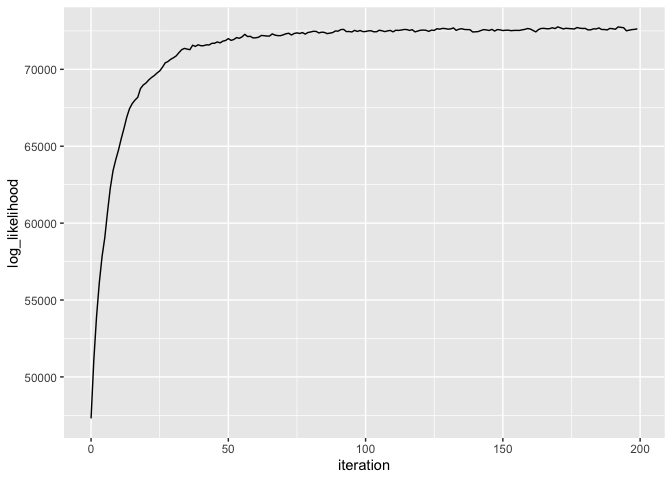
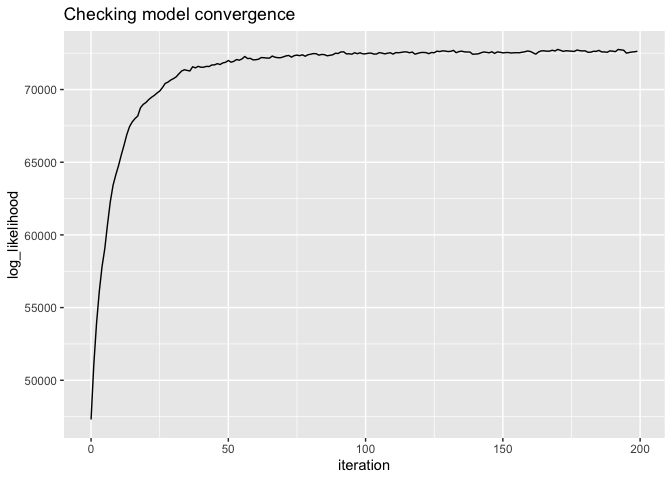
cleaning up readme plots

diff --git a/README.md b/README.md
@@ -147,7 +147,8 @@ lda <- tidylda(
 
 # did the model converge?
 # there are actual test stats for this, but should look like "yes"
-qplot(x = iteration, y = log_likelihood, data = lda$log_likelihood, geom = "line")
+qplot(x = iteration, y = log_likelihood, data = lda$log_likelihood, geom = "line") + 
+    ggtitle("Checking model convergence")
 ```
 
 <img src="man/figures/README-example-1.png" width="100%" />
@@ -277,14 +278,19 @@ p_gibbs <- predict(lda, new_data = d2[1, ], iterations = 100, burnin = 75)
 # dot is faster, less prone to error (e.g. underflow), noisier, and frequentist
 p_dot <- predict(lda, new_data = d2[1, ], method = "dot")
 
-barplot(rbind(gibbs = p_gibbs, dot = p_dot), beside = TRUE, col = c("red", "blue"))
-legend("top", legend = c("Gibbs", "dot product"), fill = c("red", "blue"))
+# pull both together into a plot to compare
+tibble(topic = 1:ncol(p_gibbs), gibbs = p_gibbs[1,], dot = p_dot[1, ]) %>%
+  pivot_longer(cols = gibbs:dot, names_to = "type") %>%
+  ggplot() + 
+  geom_bar(mapping = aes(x = topic, y = value, group = type, fill = type), 
+           stat = "identity", position="dodge") +
+  scale_x_continuous(breaks = 1:10, labels = 1:10) + 
+  ggtitle("Gibbs predictions vs. dot product predictions")
 ```
 
 <img src="man/figures/README-example-2.png" width="100%" />
 
 ``` r
-
 
 ### updating the model ----
 # now that you have new documents, maybe you want to fold them into the model?
@@ -299,7 +305,8 @@ lda2 <- update(
 
 # we can do similar analyses
 # did the model converge?
-qplot(x = iteration, y = log_likelihood, data = lda2$log_likelihood, geom = "line")
+qplot(x = iteration, y = log_likelihood, data = lda2$log_likelihood, geom = "line") +
+  ggtitle("Checking model convergence")
 ```
 
 <img src="man/figures/README-example-3.png" width="100%" />
